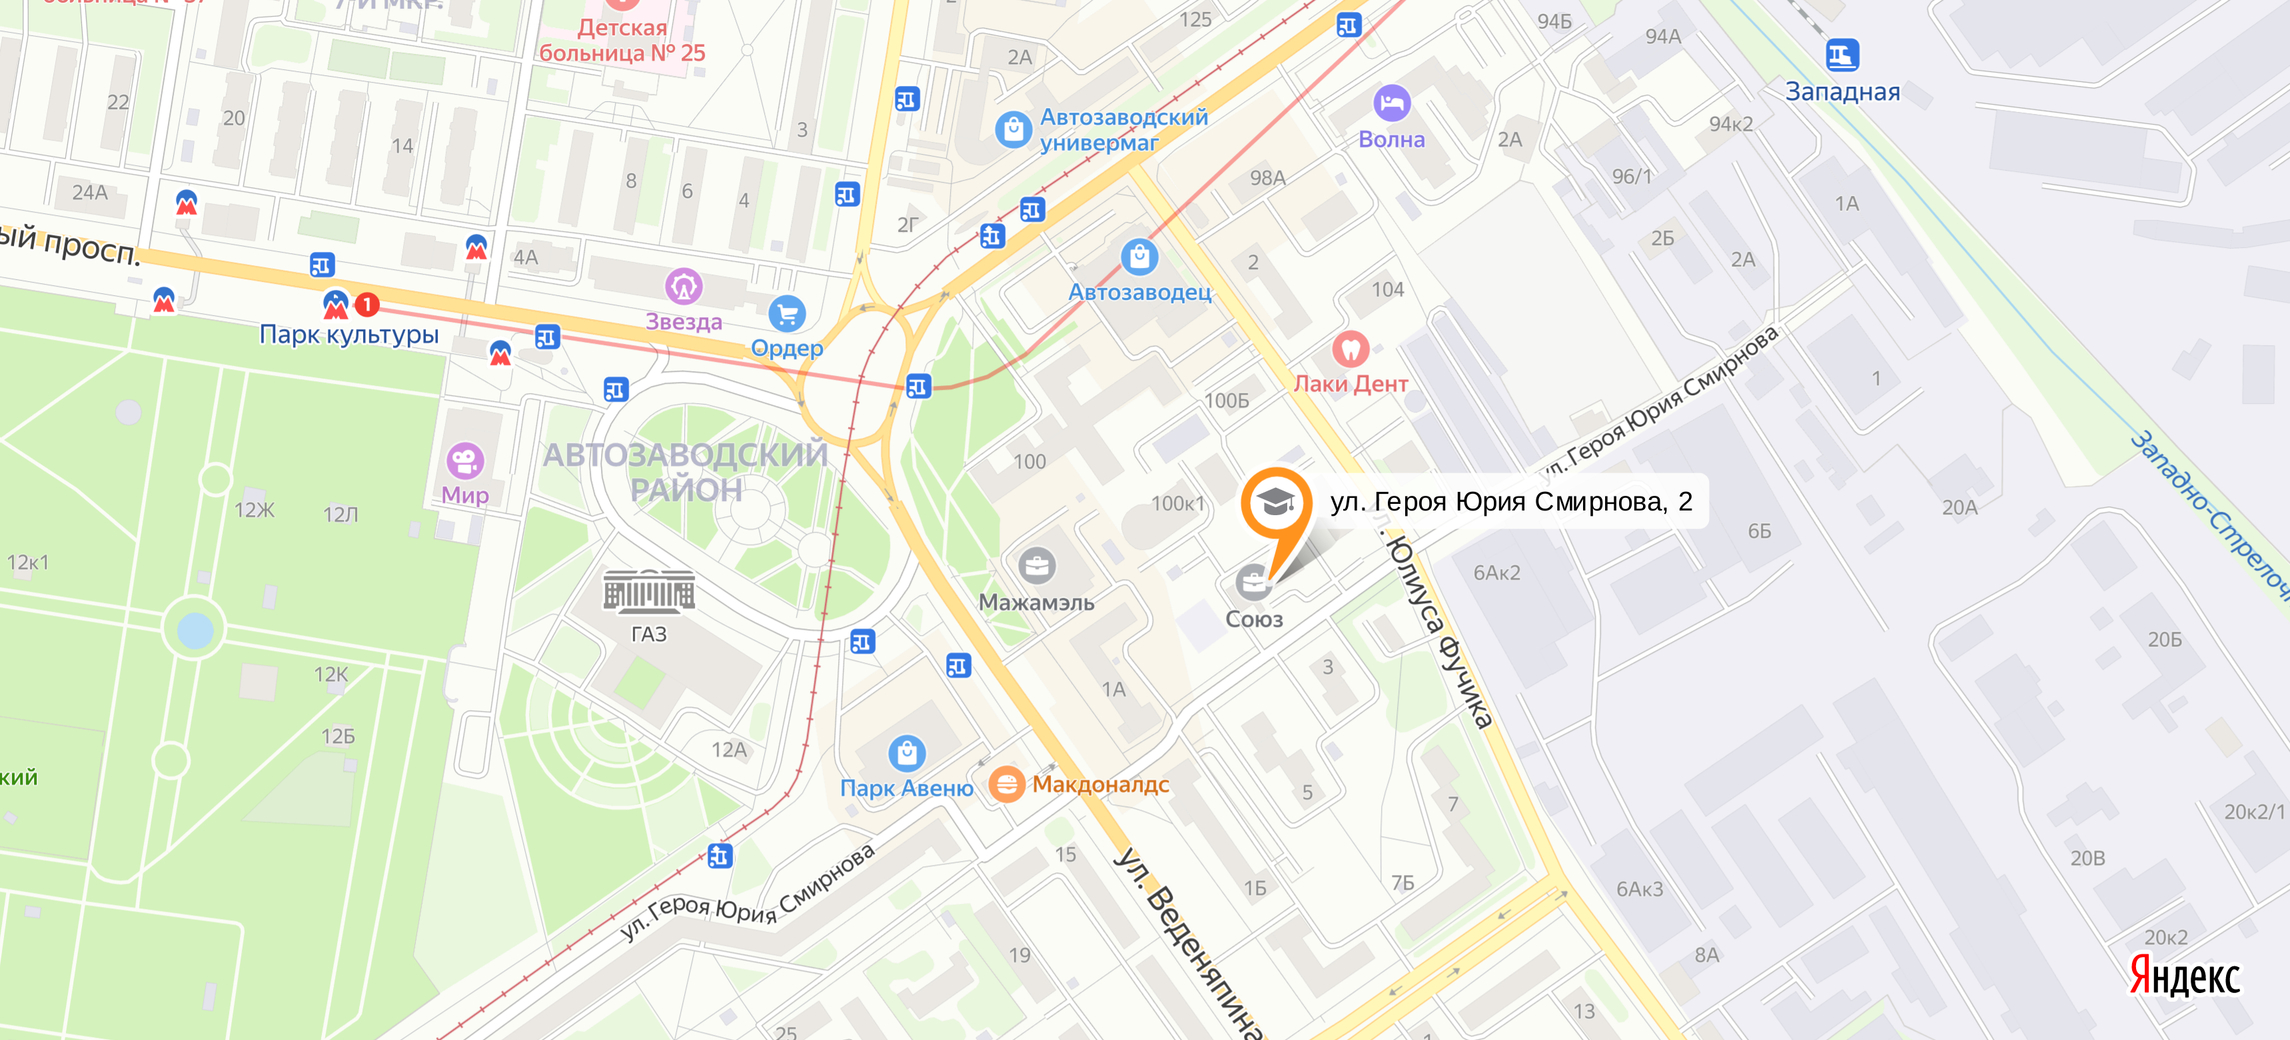
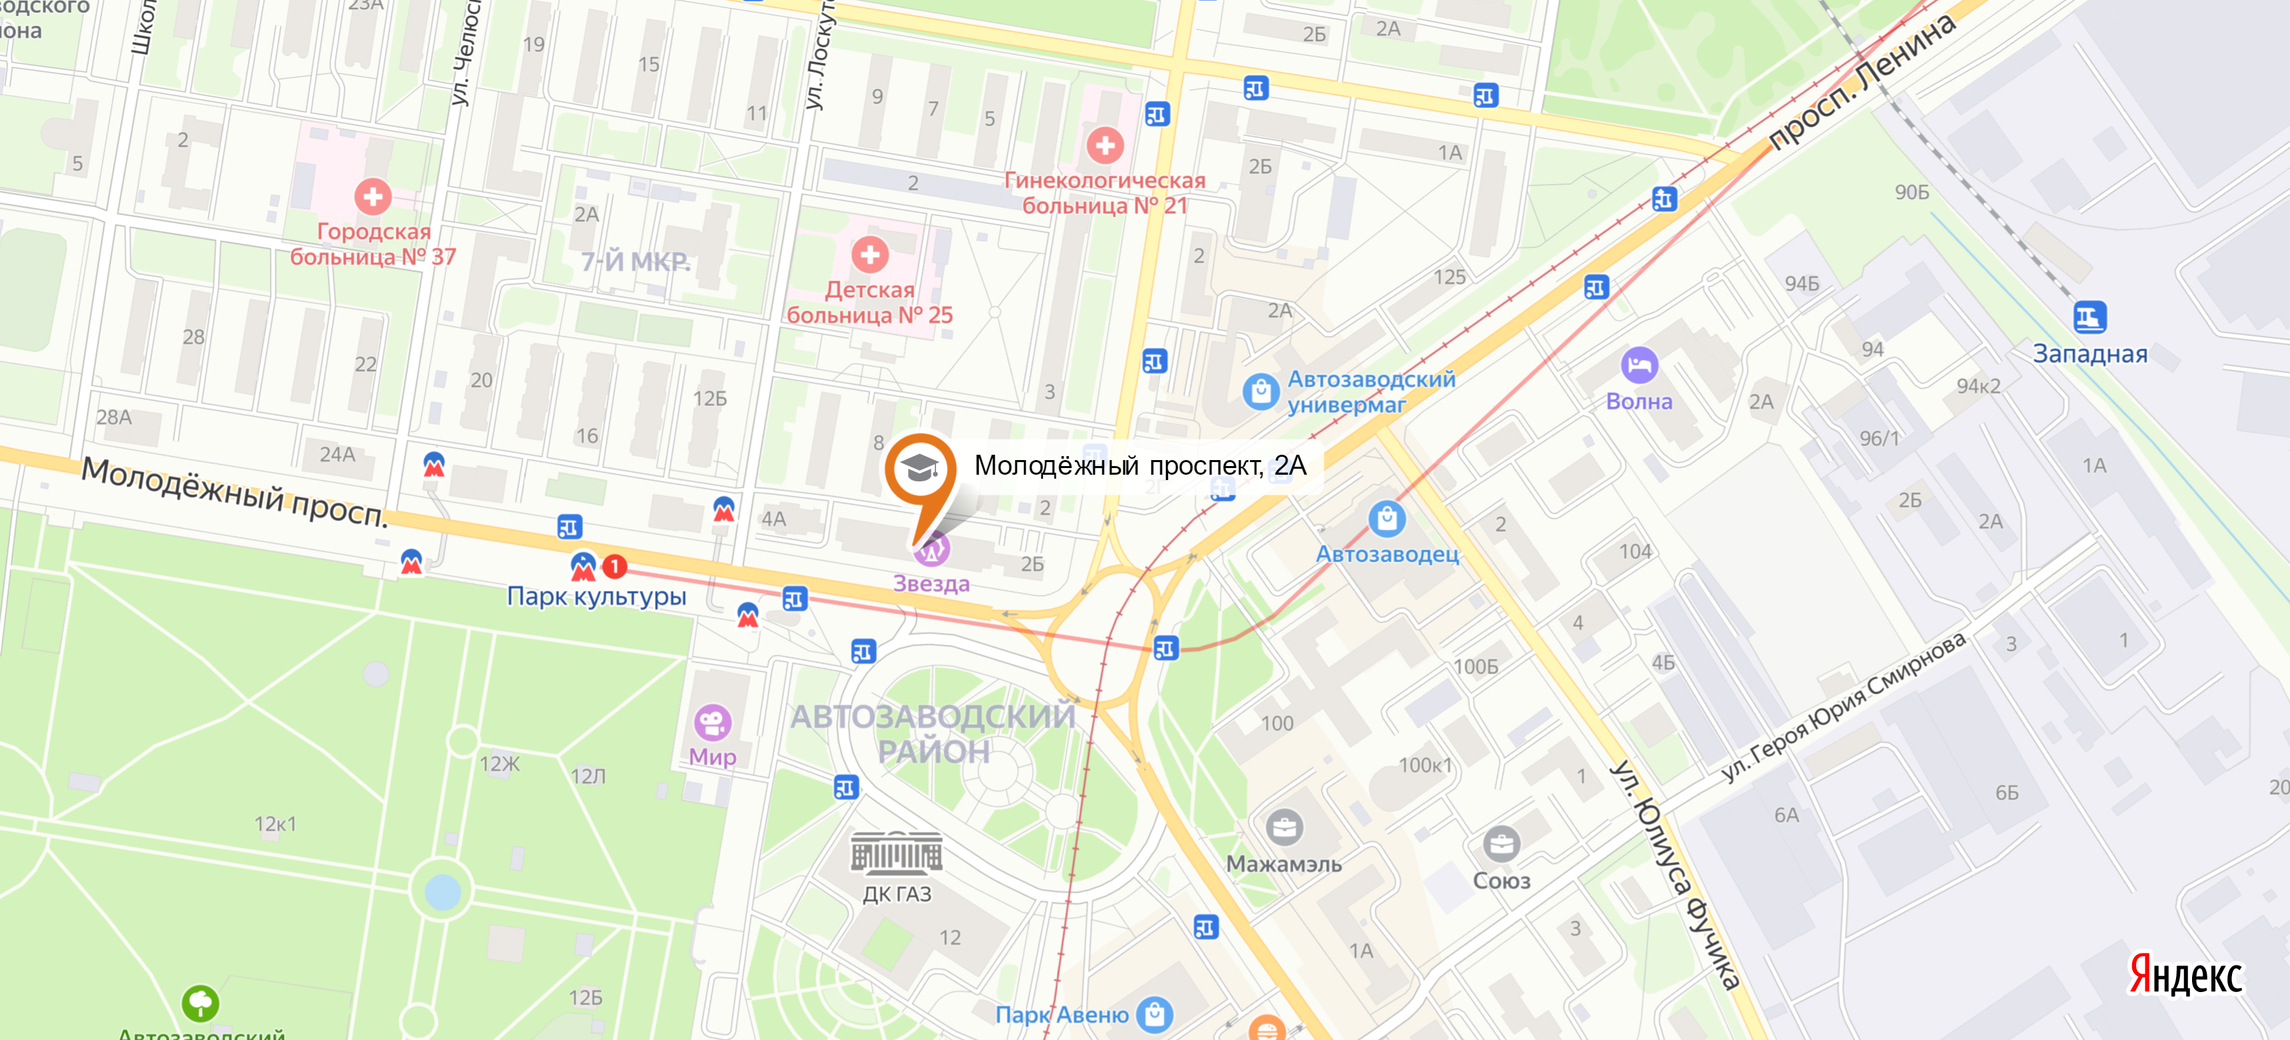
added new address and changed map imgs

diff --git a/source/index.html b/source/index.html
@@ -47,7 +47,7 @@
         </a>
         <div class="nav__contacts">
           <div class="nav__address">
-            Нижний Новгород,<br>ул. Героя Смирнова, д.2
+            Нижний Новгород,<br>пр. Молодежный, 2А
           </div>
           <div class="nav__phones">
             <a href="tel:{+7(903)846-67-77}" aria-label="Академия телефон 1">+7(903)846-67-77</a>
@@ -394,9 +394,9 @@
       <section class="contacts" id="contacts">
         <div class="contacts__wrapper">
           <h1 class="sub-title contacts__title">Наш адрес</h1>
-          <p class="contacts__adress">Нижний Новгород, ул. Героя Смирнова, д.2 (БЦ "Союз")</p>
+          <p class="contacts__adress">Проспект Молодежный, 2А (ТЦ Звезда), 2 этаж</p>
           <div class="contacts__map">
-            <iframe src="https://yandex.ru/map-widget/v1/?um=constructor%3A24c65c501ce7879fcaf000a94ddb4fedba6bc1083f4efa562d6c35e180ac581c&amp;source=constructor" width="1100" height="500" frameborder="0"></iframe>
+            <iframe src="https://yandex.ru/map-widget/v1/?um=constructor%3A63f2c246e2dc5848fc6d1ffffb6c6c4dcba81ea931686a73924c17c7f620097e&amp;source=constructor" width="1100" height="500" frameborder="0"></iframe>
           </div>
           <div class="contacts__links">
             <div class="contacts__numbers animation-apear animation-apear--element">

diff --git a/source/less/components/contacts.less b/source/less/components/contacts.less
@@ -65,7 +65,7 @@
     );
     background-size: cover;
     background-repeat: no-repeat;
-    background-position: right top;
+    background-position: center;
 
     @media (min-width: @small-desktop-width) {
       background-image: image-set(
